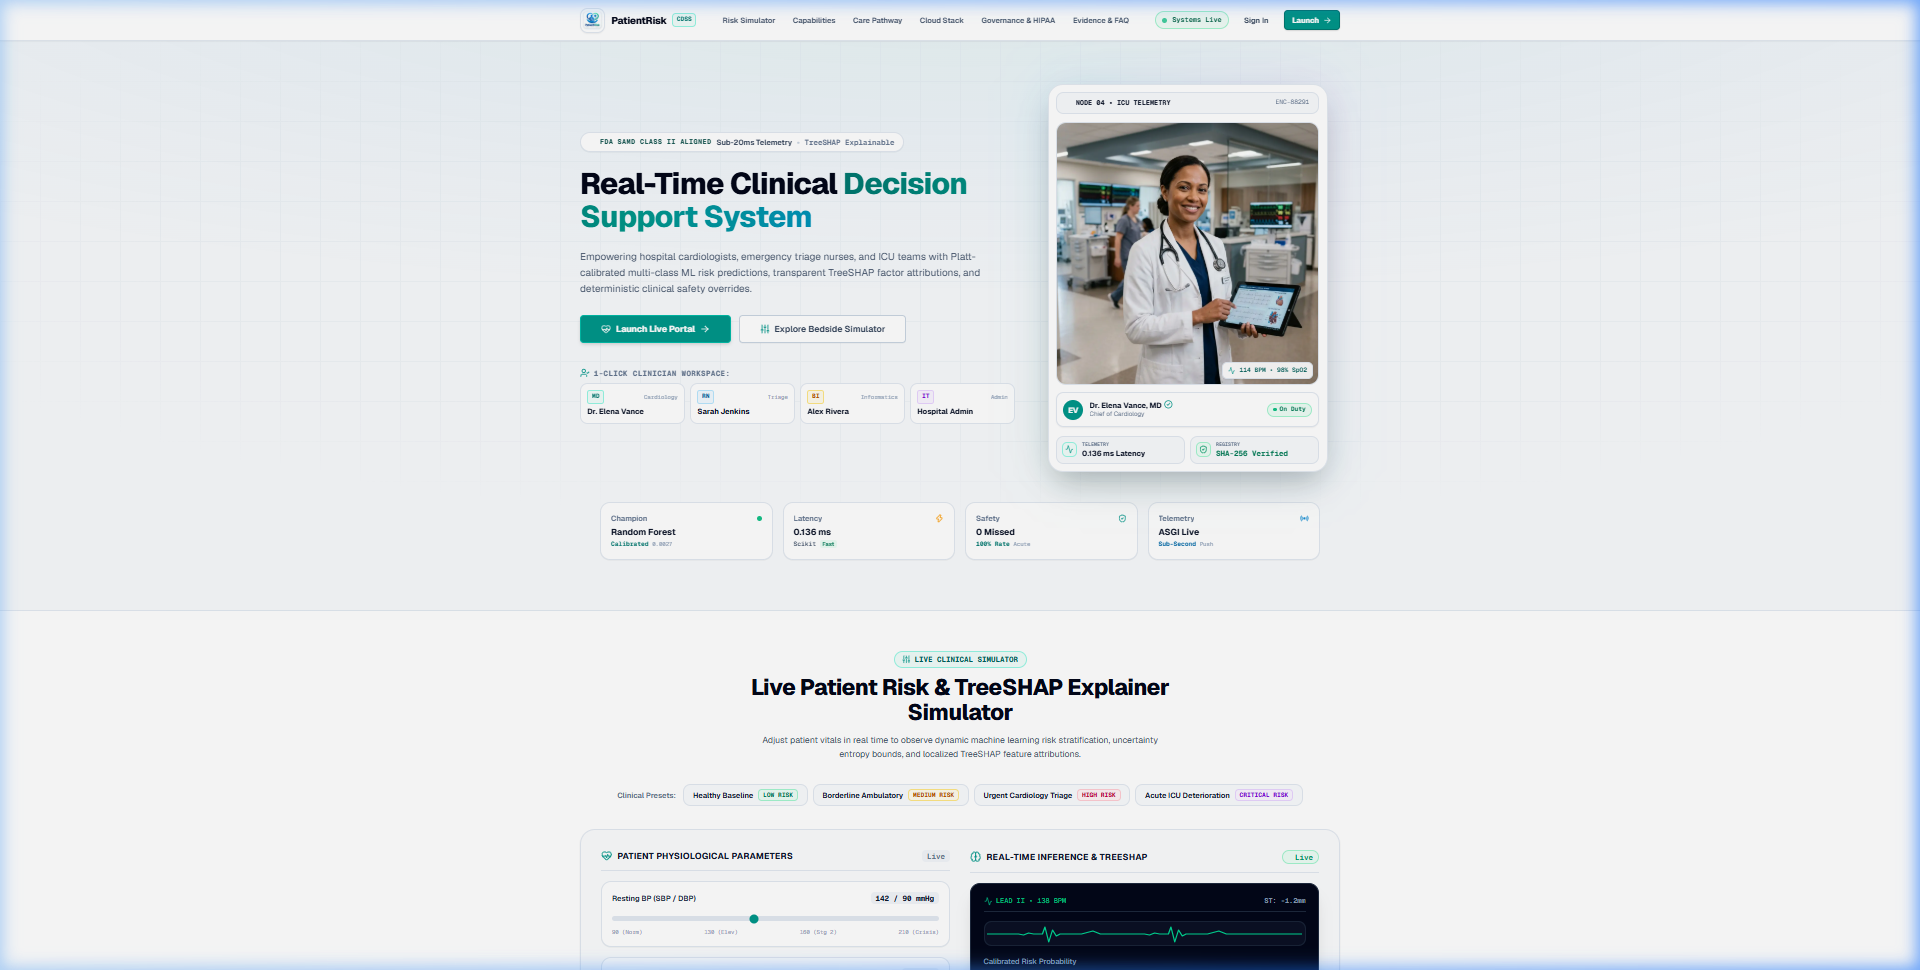
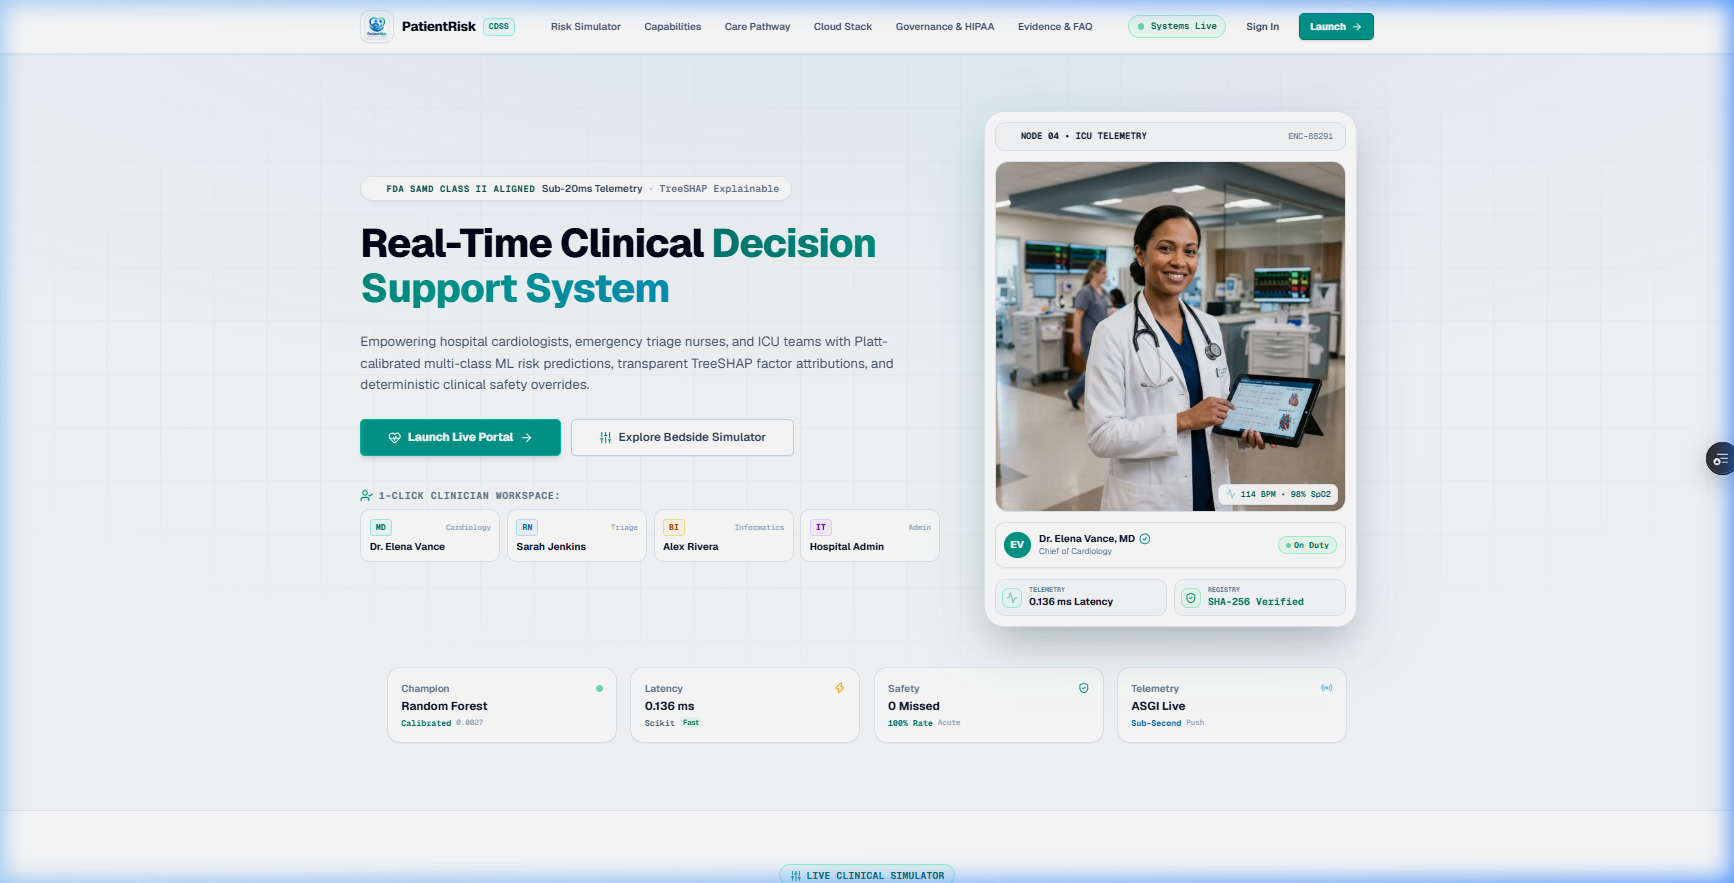
docs: set landing page hero screenshot as primary README visual at top

diff --git a/README.md b/README.md
@@ -1,21 +1,28 @@
 # PatientRisk CDSS — Intelligent Clinical Decision Support System
 
 <p align="center">
-  <img src="frontend/public/logo.png" alt="PatientRisk CDSS Logo" width="120" height="120" style="border-radius: 20%;" />
+  <a href="https://clinical-decision-support-system-2026.vercel.app">
+    <img src="frontend/public/landing-hero.png" alt="PatientRisk CDSS — Real-Time Clinical Decision Support System" width="100%" />
+  </a>
+</p>
+
+<p align="center">
+  <a href="https://clinical-decision-support-system-2026.vercel.app"><img src="https://img.shields.io/badge/🚀%20Live%20Demo-clinical--decision--support--system--2026.vercel.app-00C7B7?style=for-the-badge&logo=vercel&logoColor=white" alt="Live Demo" /></a>
+</p>
+
+<p align="center">
+  <img src="frontend/public/logo.png" alt="PatientRisk CDSS Logo" width="64" height="64" style="border-radius: 20%;" />
 </p>
 
 <h3 align="center">Enhancing Clinical Decision Support Systems Through Patient Risk Level Prediction Using Machine Learning</h3>
 
 <p align="center">
   <em>Predict • Prevent • Support</em>
-</p>
-
-<p align="center">
+  &nbsp;|&nbsp;
   <strong>Project Code: BPY-CSE-2666</strong>
 </p>
 
 <p align="center">
-  <a href="https://clinical-decision-support-system-2026.vercel.app"><img src="https://img.shields.io/badge/Live%20Demo-Vercel-000000?style=flat-square&logo=vercel&logoColor=white" alt="Live Demo" /></a>
   <a href="https://github.com/bunnyvalluri/Clinical-Decision-Support-System-/actions"><img src="https://img.shields.io/badge/CI-Passing-success?style=flat-square&logo=githubactions" alt="CI Status" /></a>
   <a href="https://python.org"><img src="https://img.shields.io/badge/Python-3.12-3776AB?style=flat-square&logo=python&logoColor=white" alt="Python 3.12" /></a>
   <a href="https://djangoproject.com"><img src="https://img.shields.io/badge/Django-5.0.14-092E20?style=flat-square&logo=django&logoColor=white" alt="Django 5.0" /></a>
@@ -26,67 +33,8 @@
   <a href="https://redis.io"><img src="https://img.shields.io/badge/Redis-7%20Alpine-DC382D?style=flat-square&logo=redis&logoColor=white" alt="Redis 7" /></a>
   <a href="https://docs.celeryq.dev"><img src="https://img.shields.io/badge/Celery-5.4-37814A?style=flat-square&logo=celery&logoColor=white" alt="Celery 5.4" /></a>
   <a href="https://docker.com"><img src="https://img.shields.io/badge/Docker-Compose%20v2-2496ED?style=flat-square&logo=docker&logoColor=white" alt="Docker Ready" /></a>
-  <a href="https://github.com/psf/black"><img src="https://img.shields.io/badge/Code%20Style-Black-000000?style=flat-square" alt="Code Style: Black" /></a>
   <a href="LICENSE"><img src="https://img.shields.io/badge/License-MIT-blue?style=flat-square" alt="License: MIT" /></a>
 </p>
-
----
-
-> [!IMPORTANT]
-> **LEGAL & CLINICAL PRACTICE NOTICE (SaMD / CDSS Disclaimer)**  
-> The PatientRisk Clinical Decision Support System is an **assistive diagnostic aid**, engineered exclusively to augment the clinical judgment of qualified medical professionals. Predictions, probabilistic risk categories, and feature attributions are **NOT medical diagnoses** and must **NEVER substitute for licensed clinical evaluations**, physical diagnostic examinations, specialized laboratory panels, or physician consultation.  
-> 
-> Licensed healthcare providers retain full diagnostic authority and must independently validate all inferences and algorithmic recommendations before initiating, changing, or withholding patient clinical interventions.
-
----
-
-## 📋 Table of Contents
-
-- [Screenshots & Live Preview](#-screenshots--live-preview)
-- [Executive Summary](#-executive-summary)
-- [Key Features](#-key-features)
-- [System Architecture](#-system-architecture)
-- [Clinical Workflow](#-clinical-workflow)
-- [Technology Stack](#-technology-stack)
-- [Machine Learning & Explainable AI (XAI)](#-machine-learning--explainable-ai-xai)
-- [Repository Structure](#-repository-structure)
-- [Quick Start Guide](#-quick-start-guide)
-  - [Prerequisites](#prerequisites)
-  - [Docker Compose Deployment (Recommended)](#1-docker-compose-deployment-recommended)
-  - [Manual Local Development Setup](#2-manual-local-development-setup)
-  - [Database Migrations & Demo Seeding](#3-database-migrations--demo-seeding)
-  - [Machine Learning Model Training](#4-machine-learning-model-training)
-- [API Reference & Protocols](#-api-reference--protocols)
-  - [Response Envelopes](#standard-response-envelopes)
-  - [Core REST Endpoints](#core-rest-api-endpoints)
-  - [Real-Time WebSocket Streams](#real-time-websocket-streams)
-- [Security, Privacy & HIPAA Posture](#-security-privacy--hipaa-posture)
-- [Testing & Quality Assurance](#-testing--quality-assurance)
-- [Environment Configuration](#-environment-configuration)
-- [Documentation Index](#-documentation-index)
-- [Contributing & Attribution](#-contributing--attribution)
-
----
-
-## 🖼 Screenshots & Live Preview
-
-<p align="center">
-  <a href="https://clinical-decision-support-system-2026.vercel.app">
-    <img src="frontend/public/landing-hero.png" alt="PatientRisk CDSS — Landing Page Hero" width="100%" style="border-radius: 12px; border: 1px solid #e5e7eb;" />
-  </a>
-</p>
-
-<p align="center">
-  <em>Live at <a href="https://clinical-decision-support-system-2026.vercel.app"><strong>clinical-decision-support-system-2026.vercel.app</strong></a></em>
-</p>
-
-<details>
-<summary>📸 Full Page Preview (click to expand)</summary>
-<br/>
-<p align="center">
-  <img src="frontend/public/landing-full.png" alt="PatientRisk CDSS — Full Landing Page" width="80%" style="border-radius: 8px; border: 1px solid #e5e7eb;" />
-</p>
-</details>
 
 ---
 
